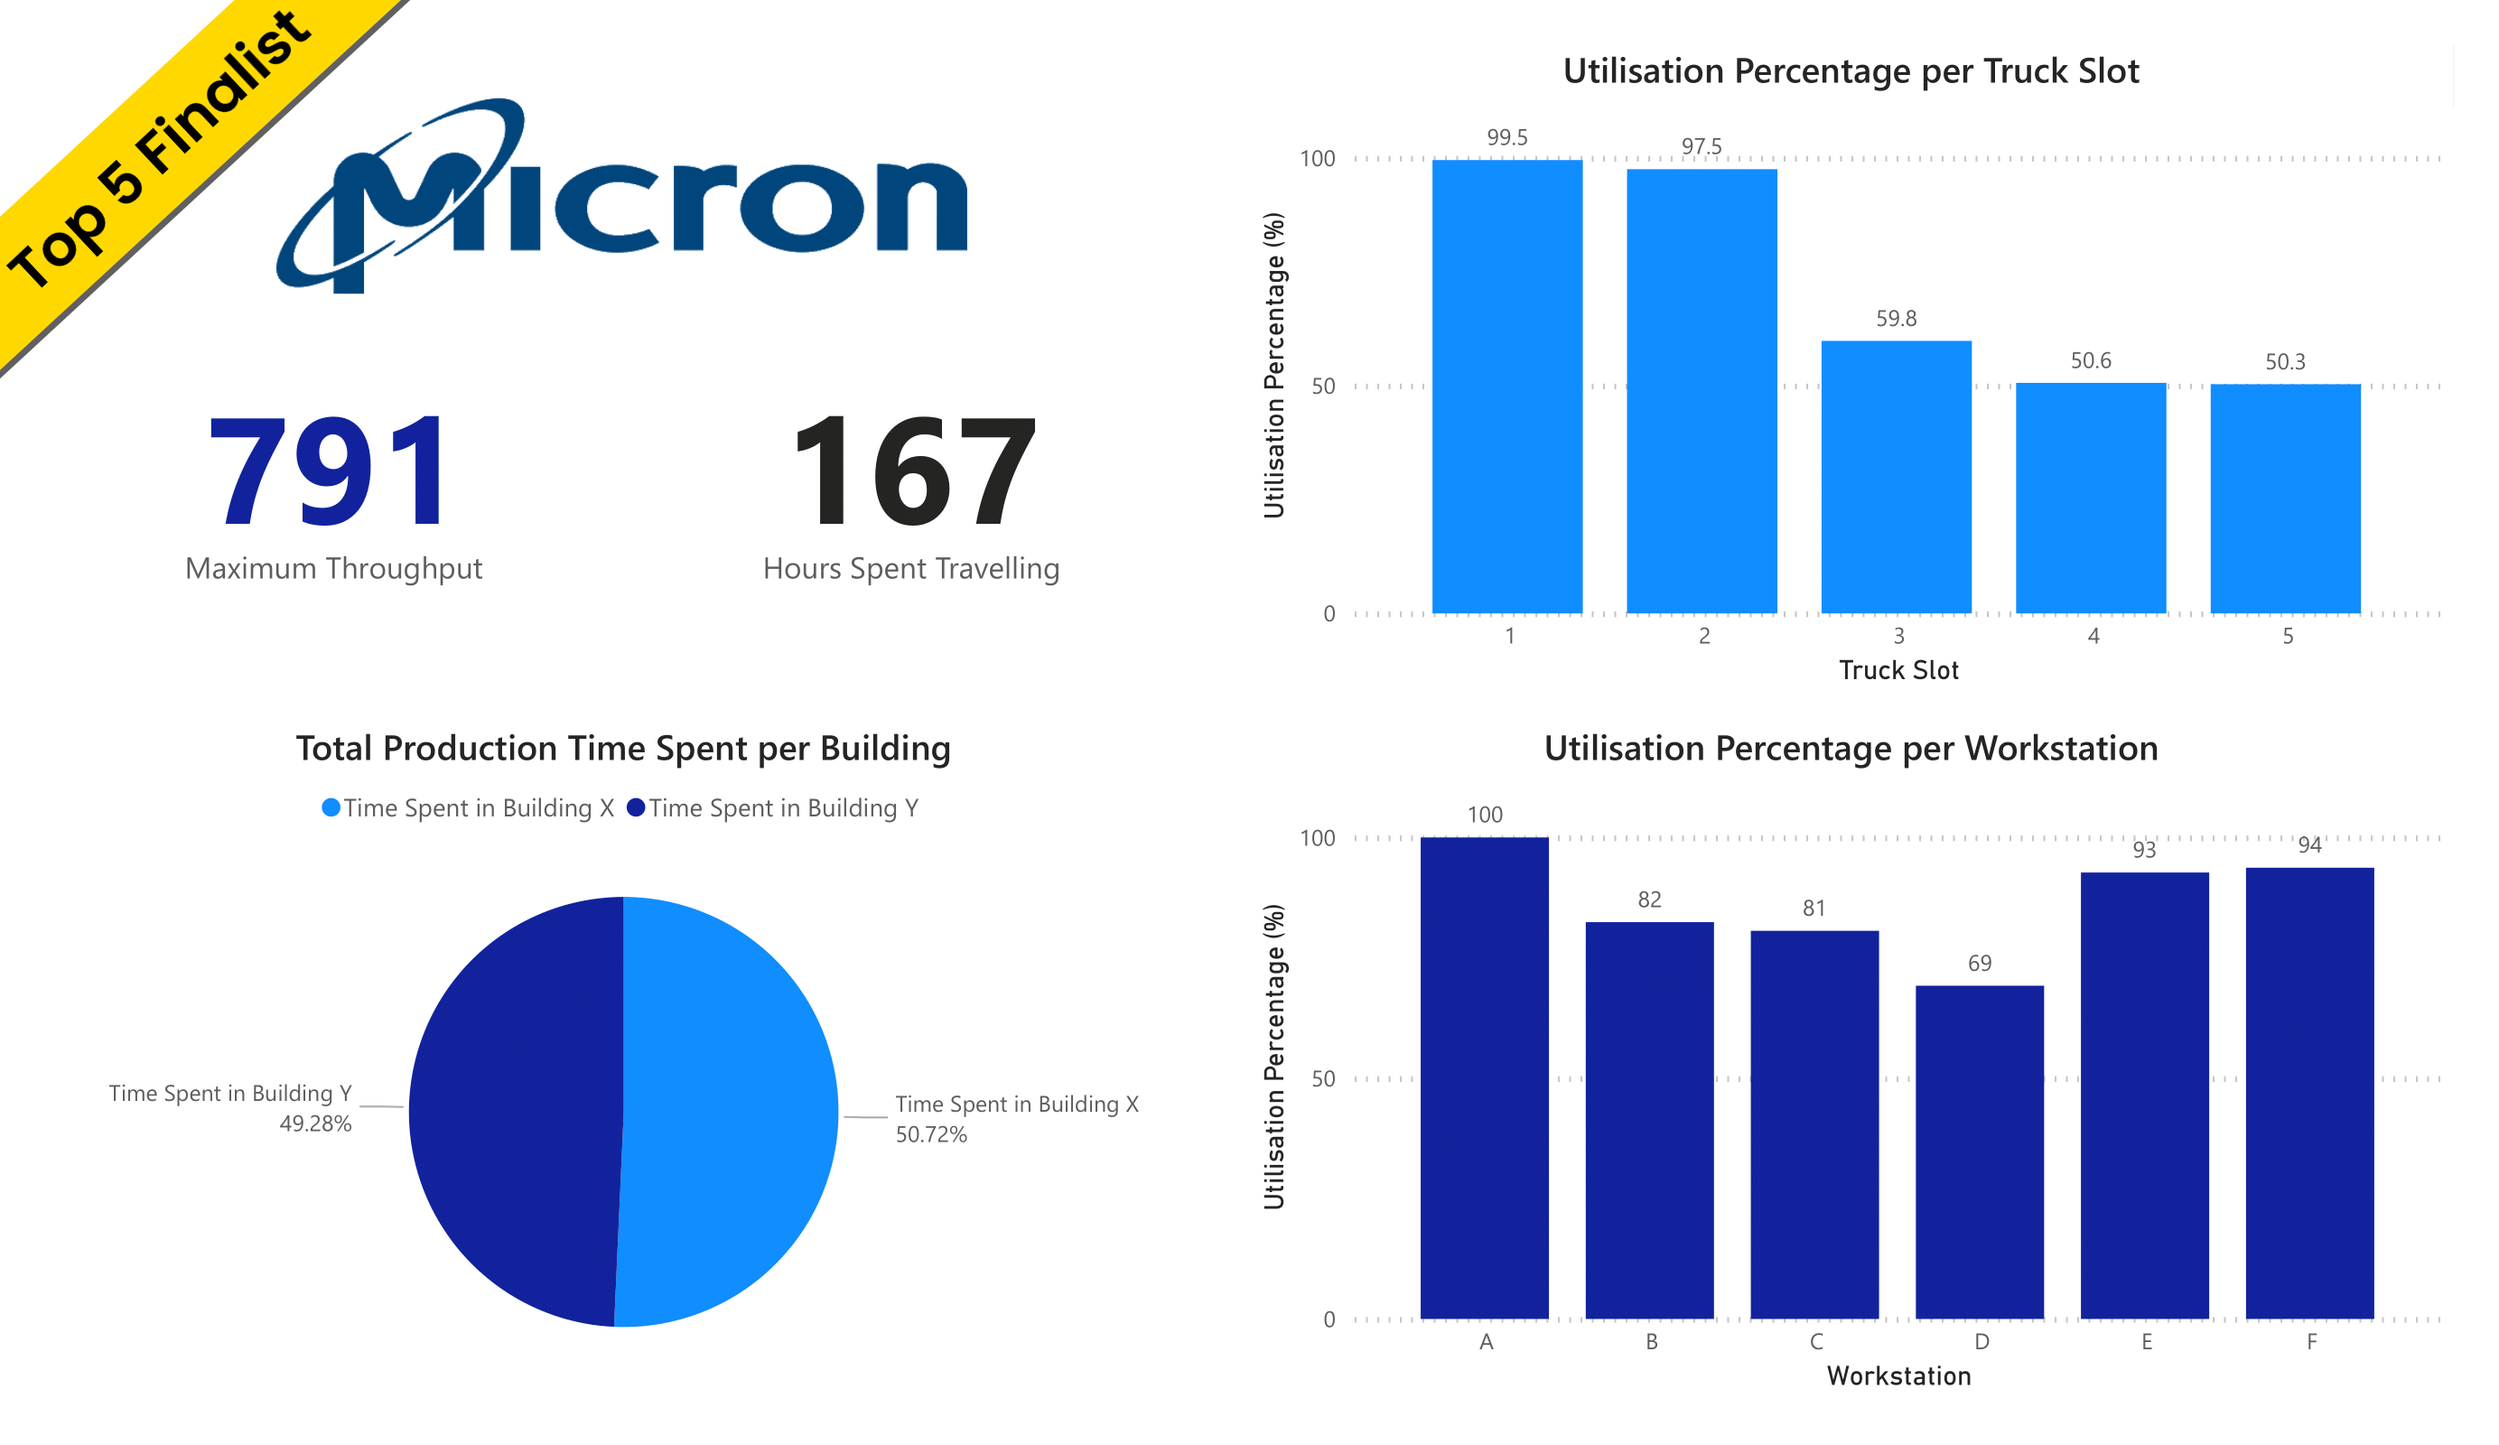
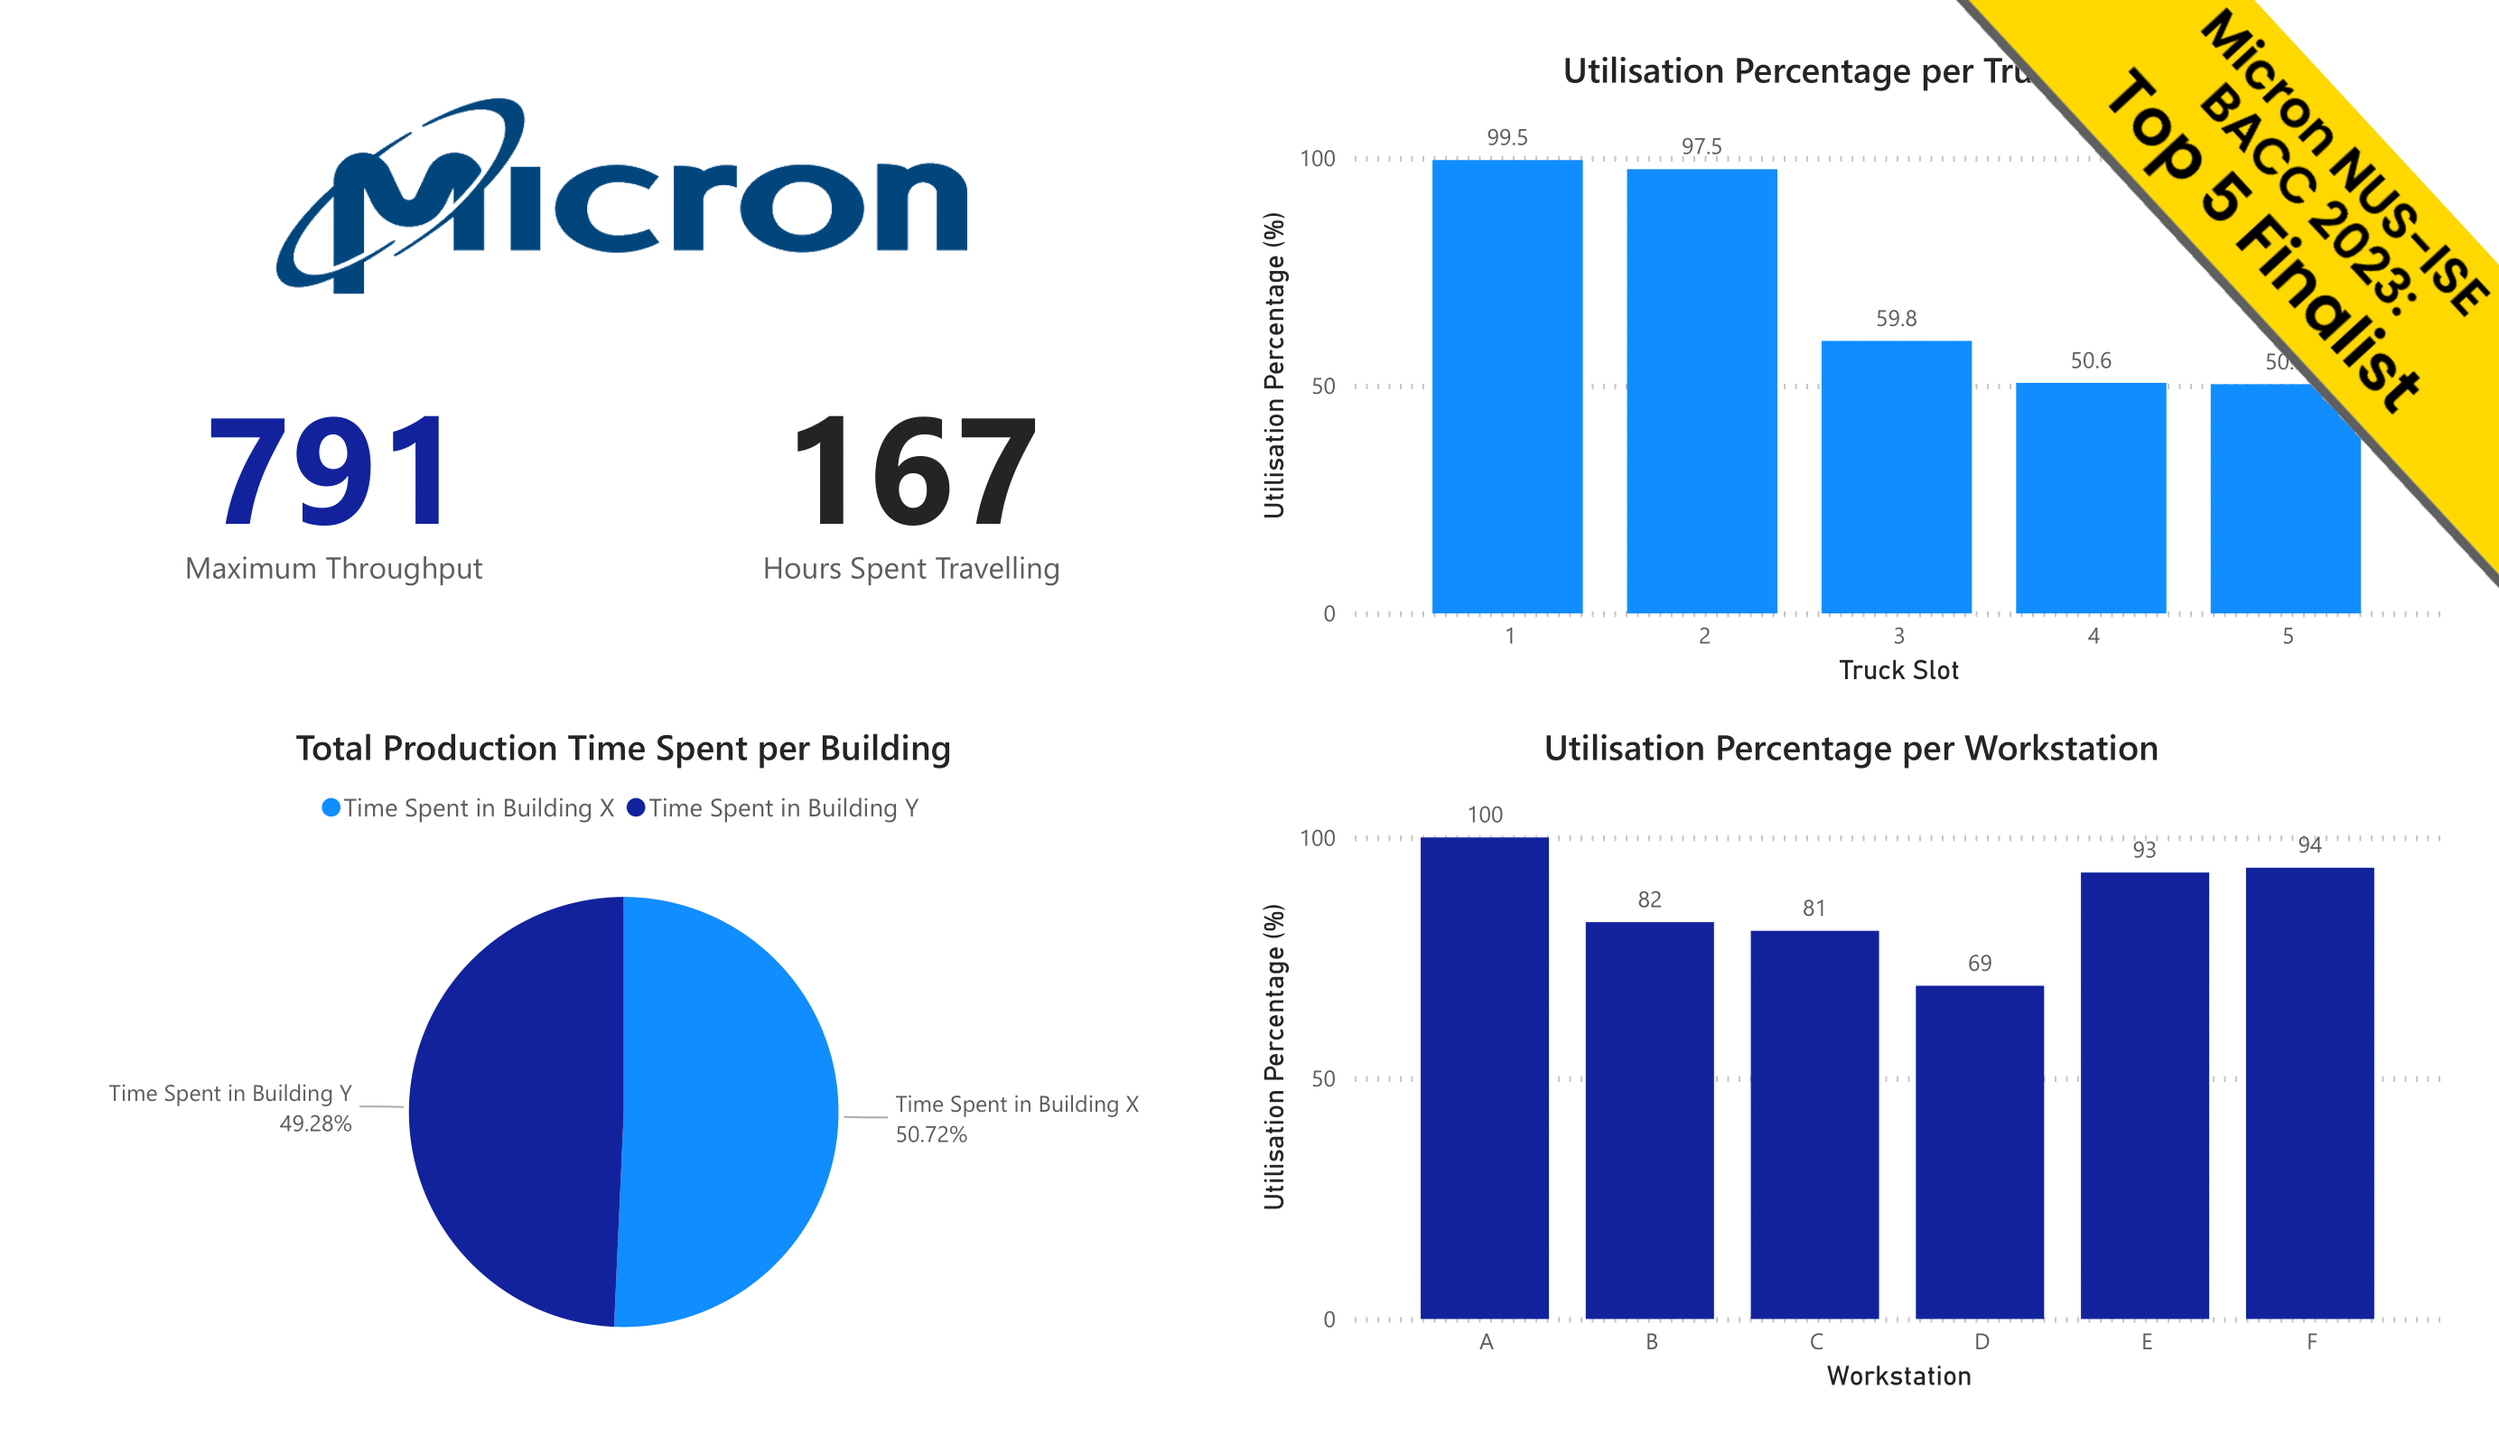
update images

Changed region(s): [[0.777, 0.0, 1.0, 0.4062], [0.0, 0.0, 0.1554, 0.25]]

diff --git a/index.html b/index.html
@@ -102,12 +102,13 @@
             <a href="https://devpost.com/software/captcha-cancer" target="popup"><img src="/images/cancer.webp" alt="Captcha Cancer"></a>
             <a href="https://devpost.com/software/getmeoff" target="popup"><img src="/images/nextstop.webp" alt="NextStop"></a>
             <a href="https://bainian-buddy.onrender.com" target="popup"><img src="/images/bainianbuddy.webp" alt="Bai Nian Buddy"></a>
-            <a href="https://github.com/trwstin/BACC2023" target="popup"><img src="/images/bacc.webp" alt="Micron Dashboard"></a>
             <a href="https://www.behance.net/gallery/102143955/uNivUS-Pastel-Re-design" target="popup"><img src="/images/univus.webp" alt="Trustin Ang's uNivUS Pastel Re-design"></a>
-            <a href="https://www.behance.net/gallery/102832119/Carpark-Rates-Calculator" target="popup"><img src="/images/carpark_rates.webp" alt="Trustin Ang's Carpark Rates Calculator"></a>
-            <a href="https://www.behance.net/gallery/48912607/Room-Booking-Website-UI-Concept" target="popup"><img src="/images/np_room.webp" alt="Trustin Ang's Room Booking Concept"></a>
+            <a href="https://github.com/trwstin/BACC2023" target="popup"><img src="/images/bacc.webp" alt="Micron NUS-ISE BACC2023 Dashboard"></a>
+            <a href="https://app.visily.ai/projects/38784e01-0a73-4e02-a6fe-435635f2d8f9/boards/436388" target="popup"><img src="/images/scrum.webp" alt="UToronto GLCC2023 Scrum"></a>
             <a href="https://xd.adobe.com/view/5511cf42-a63c-4664-9690-891b76883655/" target="popup"><img src="/images/foodhitch.webp" alt="Trustin Ang's FoodHitch App"></a>
             <a href="https://www.behance.net/gallery/102832981/Penang-Place-POS-Prototype-%282016%29" target="popup"><img src="/images/penang_pos.webp" alt="Trustin Ang's POS Prototype"></a>
+            <a href="https://www.behance.net/gallery/102832119/Carpark-Rates-Calculator" target="popup"><img src="/images/carpark_rates.webp" alt="Trustin Ang's Carpark Rates Calculator"></a>
+            <a href="https://www.behance.net/gallery/48912607/Room-Booking-Website-UI-Concept" target="popup"><img src="/images/np_room.webp" alt="Trustin Ang's Room Booking Concept"></a>
             <a href="https://www.behance.net/gallery/48903553/Swiftly-UI-Concept" target="popup"><img src="/images/swiftly.webp" alt="Trustin Ang's Swiftly UI Concept"></a>
             <a href="https://www.behance.net/gallery/102833277/GODKIT-Online-Design-System-Portal?" target="popup"><img src="/images/godkit.webp" alt="Trustin Ang's Design System Portal"></a>
             <!add onclick="magnify($(this).attr('src'))" into img for magnify image>
